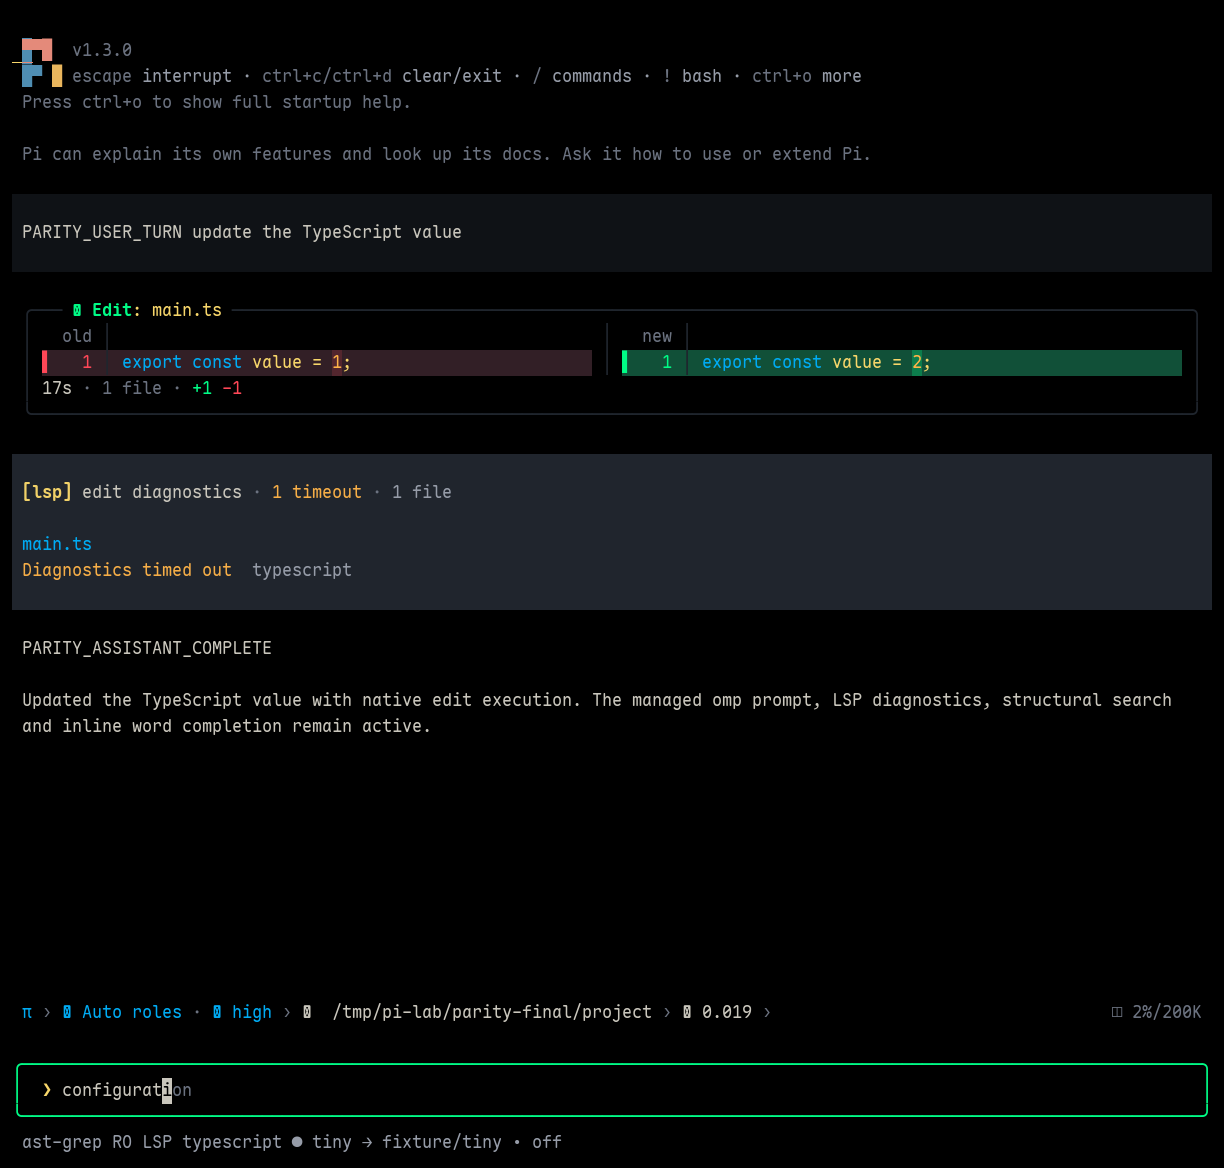
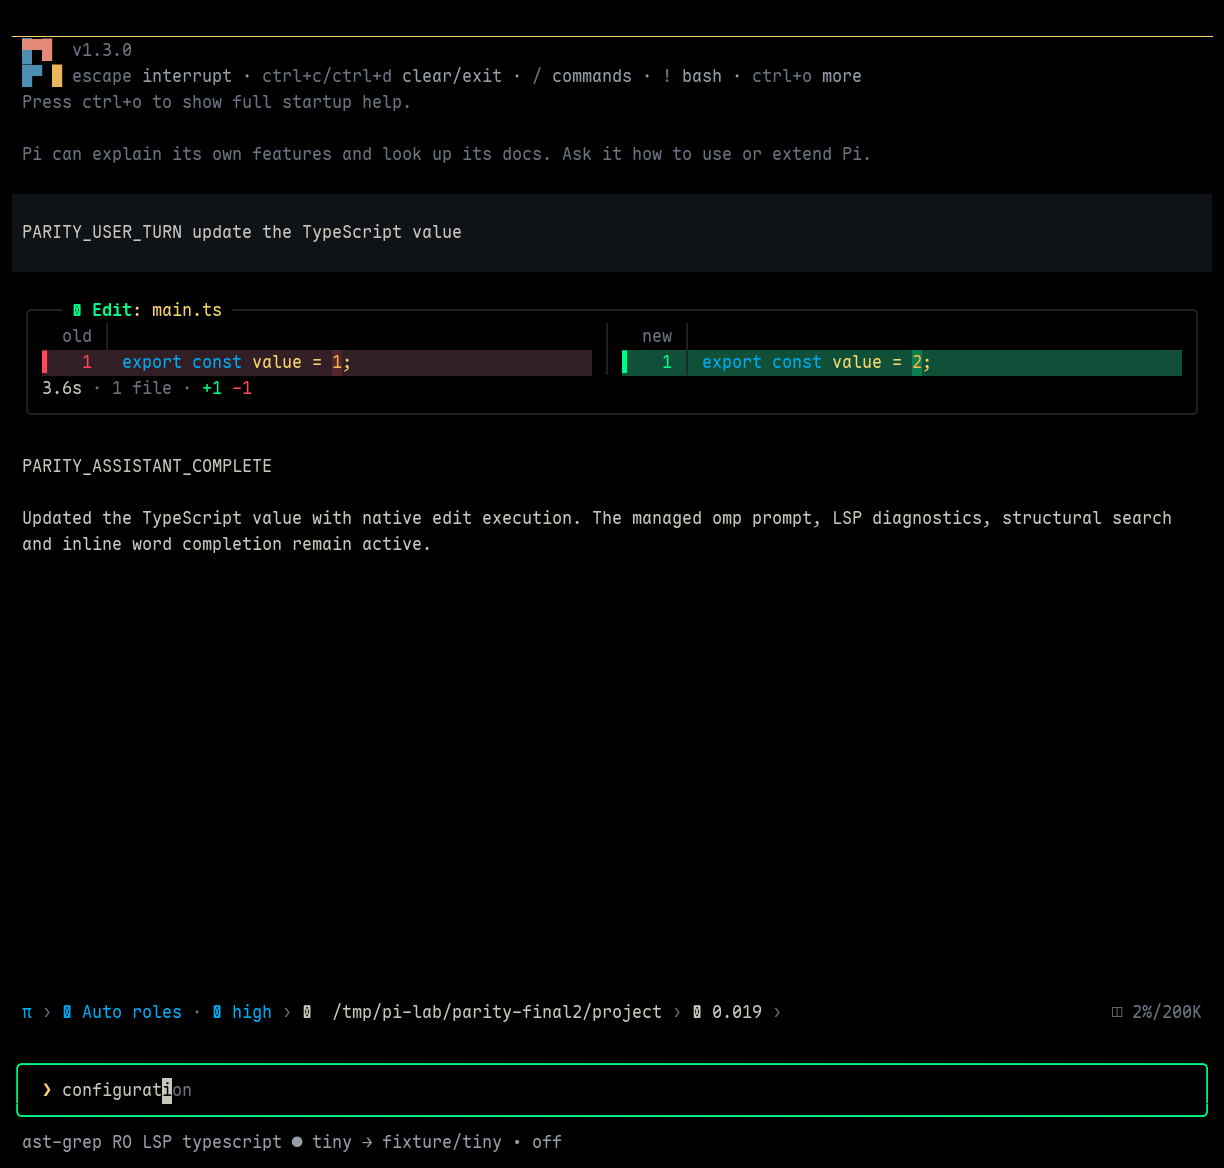
docs(pi): refresh the combined capture and LSP gap notes after the silence fix
The real combined session now shows a 3.6 s clean TypeScript edit with no
timeout card (was 17 s plus "Diagnostics timed out typescript").

diff --git a/docs/pi-gap-analysis.md b/docs/pi-gap-analysis.md
@@ -26,7 +26,7 @@ docs/source, **[H]** inference. Screenshots and per-area reports: `docs/reviews/
 | Inline word completion | none | ghost text: n-gram / SmolLM / macOS spelling [C] | none documented | **closed** (own dictionary n-gram; no web prior or SmolLM) |
 | `@` file mentions, `/` commands, `!` shell | yes | yes | yes | n/a (native) |
 | Vim keys in editor | no | optional vim mode [C `keybindings.md`] | no | **open** |
-| LSP diagnostics after writes | none | every write; push/pull freshness; optional format-on-write [C] | diagnostics feedback, opt-in `lsp:true`, ~35 servers [C] | **closed** (patched `pi-lsp`, nixpkgs servers); format-on-write **open** |
+| LSP diagnostics after writes | none | every write; push/pull freshness; optional format-on-write [C] | diagnostics feedback, opt-in `lsp:true`, ~35 servers [C] | **closed** (patched `pi-lsp`, nixpkgs servers); format-on-write and omp's deferred late delivery **open** |
 | LSP navigation tools | none | `lsp` tool, 14 actions incl. rename, rename_file, code actions, raw request [C] | experimental `lsp` tool [C] | **closed**: definition, references, hover, symbols, rename preview, code actions; rename_file/raw request **open** |
 | Formatters | none | via LSP/Biome writethrough [C] | ~25 built-in, opt-in [C] | **open** |
 | Structural search/edit | extension `pi-ast-grep` (read-only here) | `ast_grep`, `ast_edit` native [C] | none documented | n/a (kept) |
@@ -51,7 +51,9 @@ docs/source, **[H]** inference. Screenshots and per-area reports: `docs/reviews/
    `edit`/`write` land in the tool result the model reads next, navigation tools exist, `LSP gopls ● · typescript ●` shows in the
    footer, and servers include every language the user's Neovim configures. A stock plugin would not have worked: with real gopls the
    leading plugin silently skipped post-edit diagnostics (it gated on a pull-diagnostics capability gopls does not advertise), and two
-   others attached stale errors after a repair [E]. The 15-line fix is carried as a named patch. See `docs/pi-lsp.md`.
+   others attached stale errors after a repair [E]. Two small named patches are carried: the 15-line eligibility fix and a silence fix
+   found by the combined check (a clean TypeScript edit waited the whole 15 s window, then reported a timeout; it now reads as clean
+   after at most 3 s). See `docs/pi-lsp.md`.
 2. **omp's word autocomplete.** It is inline ghost text from omp's `pi-predict` crate (n-gram over a compressed web prior; opt-in
    SmolLM-135M; macOS spelling), shown only at the end of a prose word, accepted with Tab (Right Arrow without the space). Upstream
    feedback learning is currently a no-op in all three engines [C]; the Pi extension implements real accept/reject learning over a
